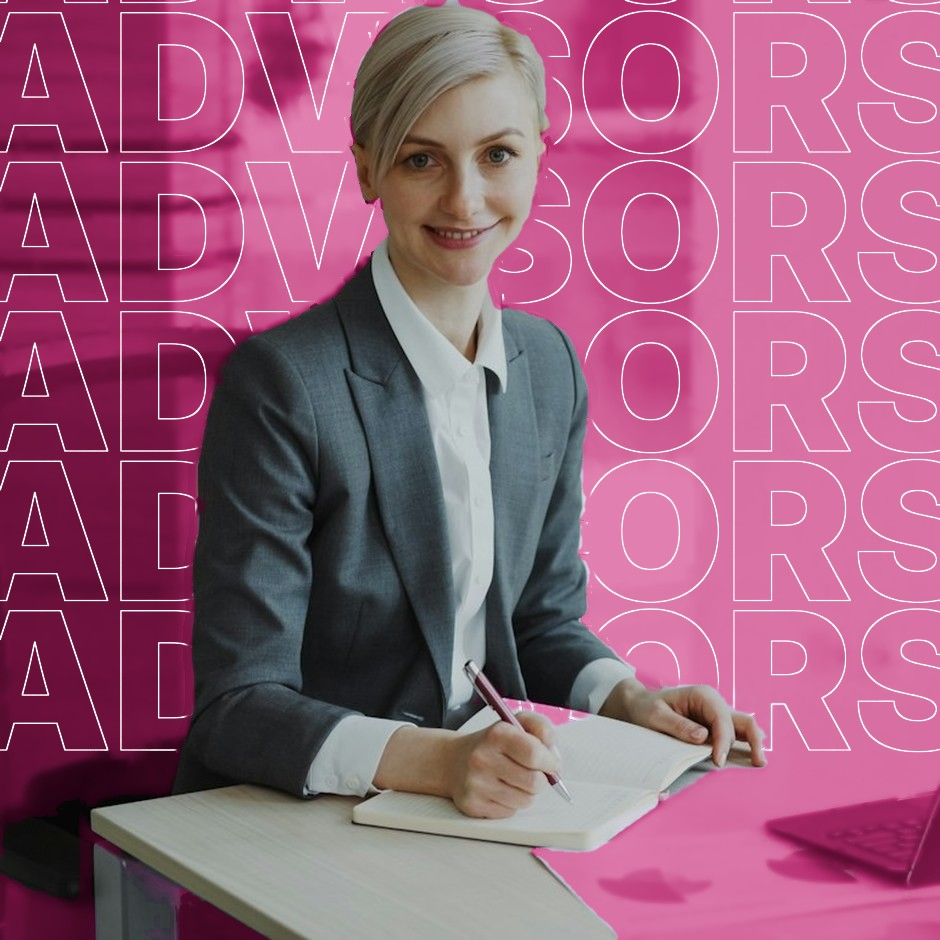
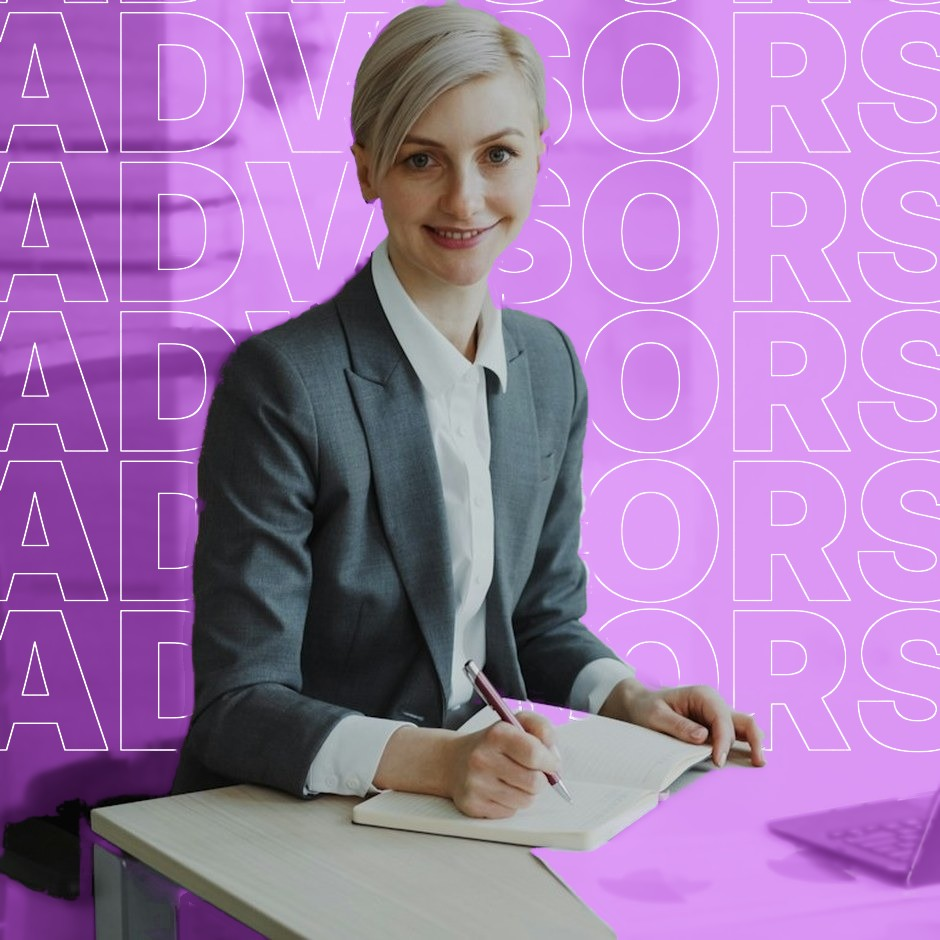
Wave Tax Landing Origami: advisor overlay matches the card pink
Claude-Session: https://claude.ai/code/session_016rpguaGnGwA1zdzYfzRZj8

diff --git a/wave-tax-landing-origami/index.html b/wave-tax-landing-origami/index.html
@@ -443,7 +443,7 @@ html body nav.back:not(.sb-panel):not(:has(>div))>a,html body nav.back:not(.sb-p
         <p>Hand your books to a dedicated Wave bookkeeper. They catch you up, keep every transaction categorized and reconciled, and hand you clean, tax-ready reports before the CRA deadline.</p>
         <a class="btn" href="#">Meet your advisor</a>
       </div>
-      <img src="img/advisor-duo.jpg" alt="A smiling Wave advisor in a grey suit takes notes at her desk, in front of a dark pink background repeating the word ADVISORS in outline type">
+      <img src="img/advisor-duo.jpg" alt="A smiling Wave advisor in a grey suit takes notes at her desk, in front of a pink background repeating the word ADVISORS in outline type">
     </div>
   </div>
 </section>
